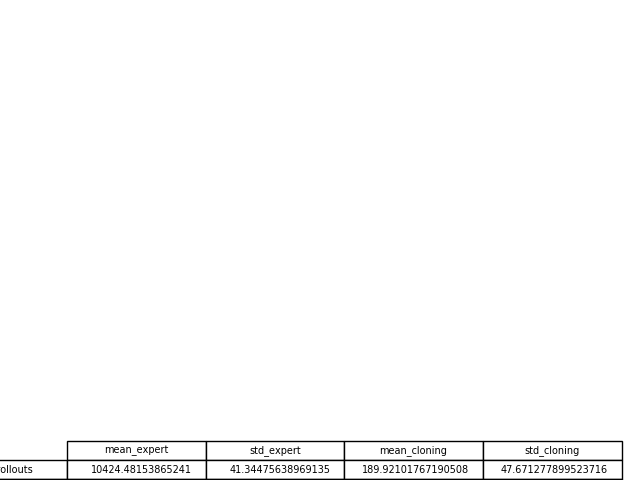
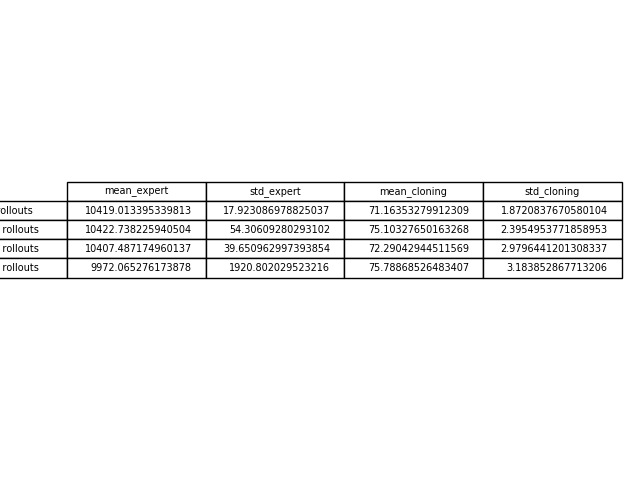
Centered table

Changed region(s): [[0.0, 0.375, 1.0, 0.5938], [0.0, 0.9062, 1.0, 1.0]]

diff --git a/hw1/behavior_cloning.py b/hw1/behavior_cloning.py
@@ -175,7 +175,7 @@ def main():
         fig.patch.set_visible(False)
         ax.axis('off')
         ax.axis('tight')
-        table = ax.table(cellText=cell_text, rowLabels=row_labels, colLabels=column_labels)
+        table = ax.table(cellText=cell_text, rowLabels=row_labels, colLabels=column_labels, loc='center')
 
         fig.tight_layout()
         plt.savefig(os.path.join('rollout_comparisons', args.envname + '.png'))
